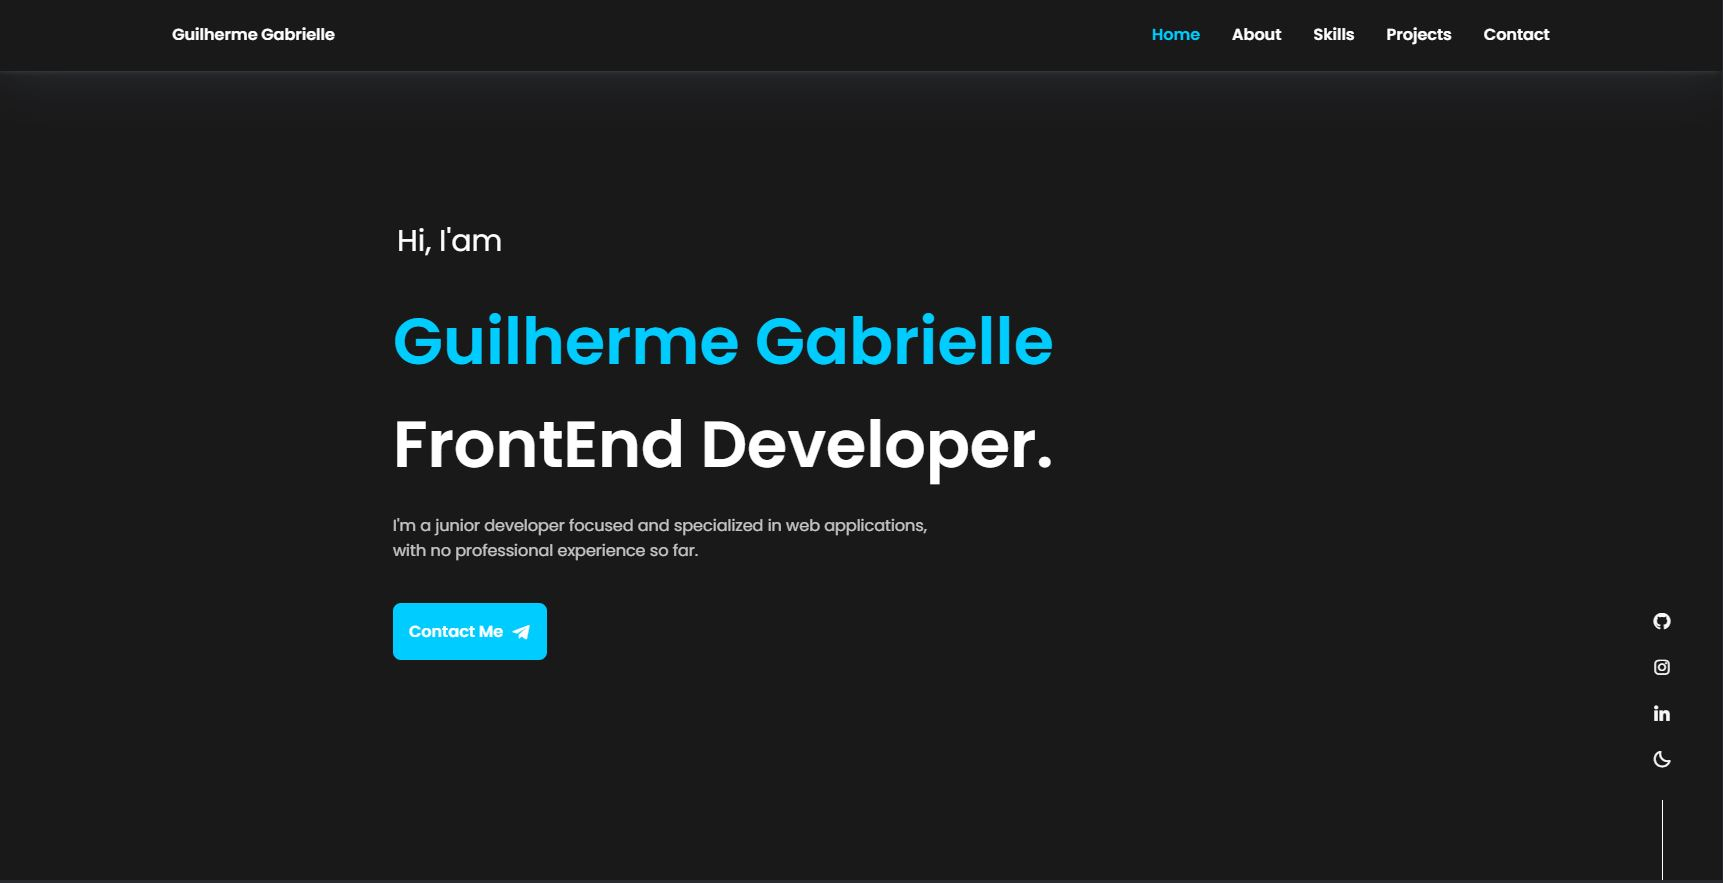
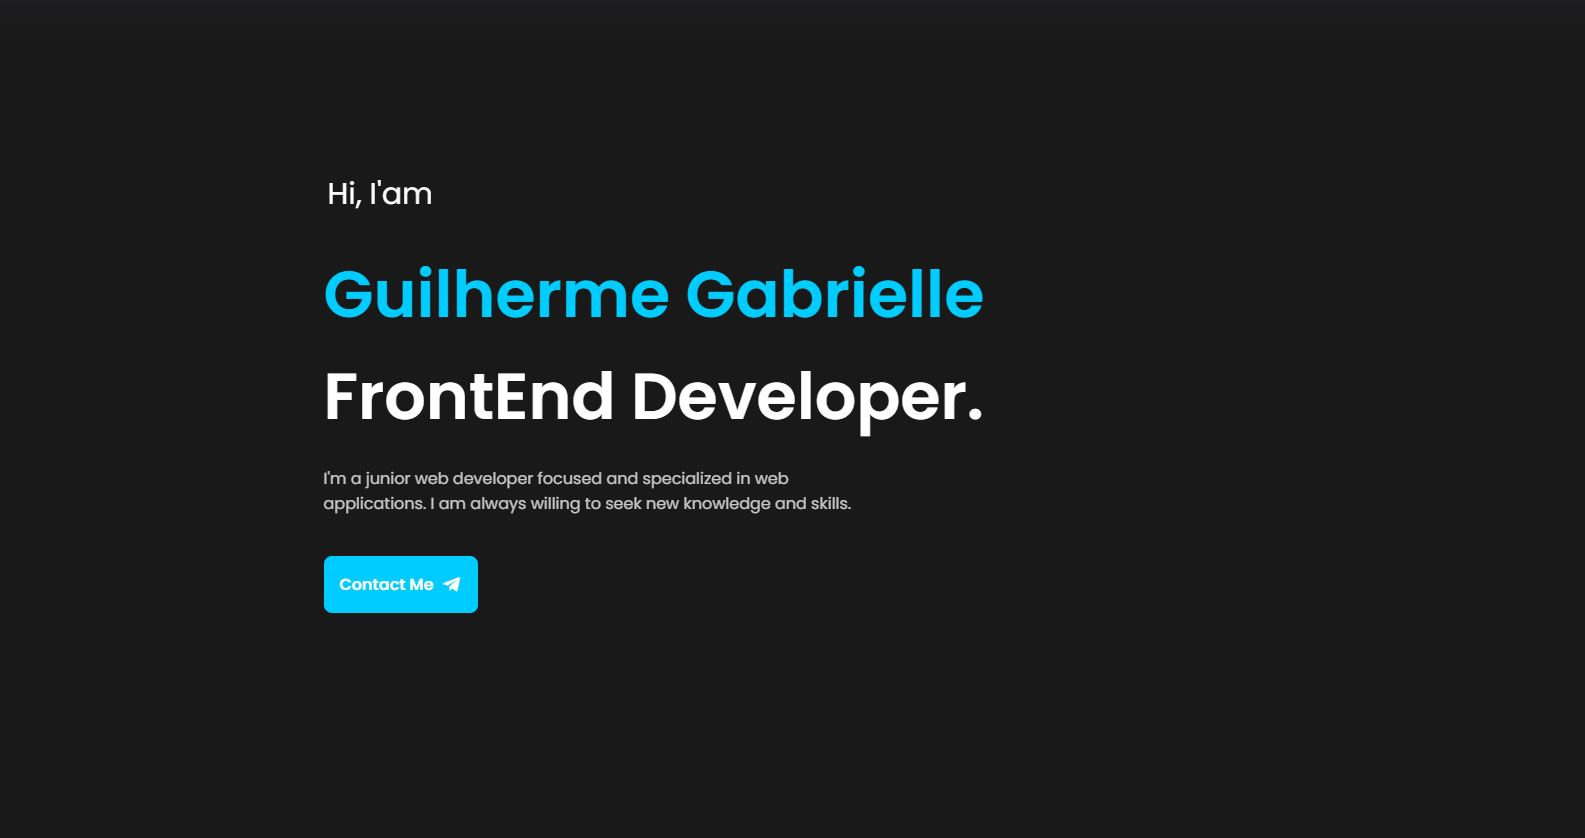
third commit

diff --git a/index.html b/index.html
@@ -80,10 +80,10 @@
                 <h1 class="home-data-title">Hi, I'am </h1>
                 <h2 class="home-data-subtitle">Guilherme Gabrielle</h2>
                 <h3 class="home-data-subtitle big-heading">FrontEnd Developer.</h3>
-                <p class="home-data-description">I'm a junior developer focused and specialized in web
-                    applications,
-                    with no professional experience so
-                    far.</p>
+                <p class="home-data-description">
+                    I'm a junior web developer focused and specialized in web applications. I am always willing to seek
+                    new knowledge and skills.
+                </p>
 
                 <a href="#contact" class="button button-flex">
                     Contact Me <i class='bx bxl-telegram button-icon'></i>
@@ -95,11 +95,11 @@
 
         <section class="container section section_height" id="about">
             <h2 class="section-title">About Me</h2>
+
             <div class="about-me">
                 <div class="box-img">
                     <img src="assets/img/perfil.jpg" class="img-profile">
                 </div>
-
 
                 <div class="about-data">
                     <p class="desc">Hi, my name is Guilherme, I'm 20 years old. I started studying programming in 2021,
@@ -111,10 +111,18 @@
                         FullStack developer. To advance my knowledge, I took a course on Udemy, WEB development.
                     </p>
                     <p class="desc">
-                        I am a calm developer, organized and focused on my goals and objectives, always looking to
-                        improve
-                        my knowledge.
+                        I'm a calm developer, organized and focused on my goals and objectives. I'm always looking to
+                        improve my skills and knowledge, also always willing to face challenges and learn new things to
+                        become an increasingly complete developer.
                     </p>
+                </div>
+
+                <a href="" class="button-resume button-flex">
+                    <i class="ri-external-link-line about-resume"></i> Curriculum
+                </a>
+            </div>
+
+
 
         </section>
 
@@ -299,7 +307,7 @@
                     </div>
 
                     <div class="projects-desc">
-                        <h2>Title Project</h2>
+                        <h2>My portfolio</h2>
                         <p> Description project</p>
                     </div>
 
@@ -308,7 +316,27 @@
                             <i class='bx bxl-github projects-icon'></i> GitHub
                         </a>
                         <a href="">
-                            <i class="ri-attachment-2 projects-icon"></i> Demo
+                            <i class="ri-external-link-line projects-icon"></i> Demo
+                        </a>
+                    </div>
+                </div>
+
+                <div class="projects-container">
+                    <div class="card">
+                        <img src="assets/img/appCalculadora.JPG">
+                    </div>
+
+                    <div class="projects-desc">
+                        <h2>App Calculadora</h2>
+                        <p>Basic application developed in the Udemy course</p>
+                    </div>
+
+                    <div class="projects-links">
+                        <a href="">
+                            <i class='bx bxl-github projects-icon'></i> GitHub
+                        </a>
+                        <a href="">
+                            <i class="ri-external-link-line projects-icon"></i> Demo
                         </a>
                     </div>
                 </div>
@@ -328,27 +356,7 @@
                             <i class='bx bxl-github projects-icon'></i> GitHub
                         </a>
                         <a href="">
-                            <i class="ri-attachment-2 projects-icon"></i> Demo
-                        </a>
-                    </div>
-                </div>
-
-                <div class="projects-container">
-                    <div class="card">
-                        <img src="assets/img/portfolio.JPG">
-                    </div>
-
-                    <div class="projects-desc">
-                        <h2>Title Project</h2>
-                        <p> Description project</p>
-                    </div>
-
-                    <div class="projects-links">
-                        <a href="">
-                            <i class='bx bxl-github projects-icon'></i> GitHub
-                        </a>
-                        <a href="">
-                            <i class="ri-attachment-2 projects-icon"></i> Demo
+                            <i class="ri-external-link-line projects-icon"></i> Demo
                         </a>
                     </div>
                 </div>

diff --git a/style.css b/style.css
@@ -247,22 +247,7 @@ textarea::placeholder,
     background: #00c2f3cc;
 }
 
-#message-success {
-    background: var(--bg-content);
-    border-radius: 3px;
-    padding: 3rem;
-    width: 650px;
-    margin-top: 2rem;
-    margin-inline: auto;
-    display: none;
-}
 
-
-#message-success {
-    color: #ffffff;
-    text-align: center;
-
-}
 
 /* SKILLS ------------------------------------------- */
 .skills_container {
@@ -368,7 +353,7 @@ textarea::placeholder,
     object-fit: cover;
     border-radius: 4px;
     overflow: hidden;
-    background: #00c4f3;
+    /*background: #00c4f3;  */
 
 }
 
@@ -488,11 +473,23 @@ textarea::placeholder,
 .button-icon {
     font-size: 1.25rem;
     margin-left: 0.5rem;
-    transition: 0.3s;
 }
 
 /* About Me ================================================= */
 
+.button-resume {
+    padding: 1rem;
+    color: #000000;
+    background-color:#818085;
+    margin-top: -30px;
+    margin-left: -10px;
+    border-radius: 0.5rem;
+}
+
+.about-resume {
+    font-size: 1.25rem;
+    margin-right: 0.5rem;
+}
 
 
 .box-img {
@@ -503,7 +500,6 @@ textarea::placeholder,
     justify-content: center;
     align-items: center;
     overflow: hidden;
-    background-color: black;
 }
 
 .img-profile {
@@ -517,7 +513,7 @@ textarea::placeholder,
     position: absolute;
     width: 500px;
     height: 500px;
-    background-image: conic-gradient(transparent, transparent, transparent, #0ec7ff);
+    background-image: conic-gradient(transparent, transparent, transparent, #620eff);
     animation: animate 4s linear infinite;
     animation-delay: -2s;
 
@@ -528,7 +524,7 @@ textarea::placeholder,
     position: absolute;
     width: 500px;
     height: 500px;
-    background-image: conic-gradient(transparent, transparent, transparent, #8400ff);
+    background-image: conic-gradient(transparent, transparent, transparent, #00b7ff);
     animation: animate 4s linear infinite;
 
 }
@@ -1253,8 +1249,8 @@ textarea::placeholder,
 @media screen and (max-width: 350px) {
 
     .container {
-        margin-left: 1rem;
-        margin-right: 1rem;
+        margin-left: auto;
+        margin-right: auto;
     }
 
 }
